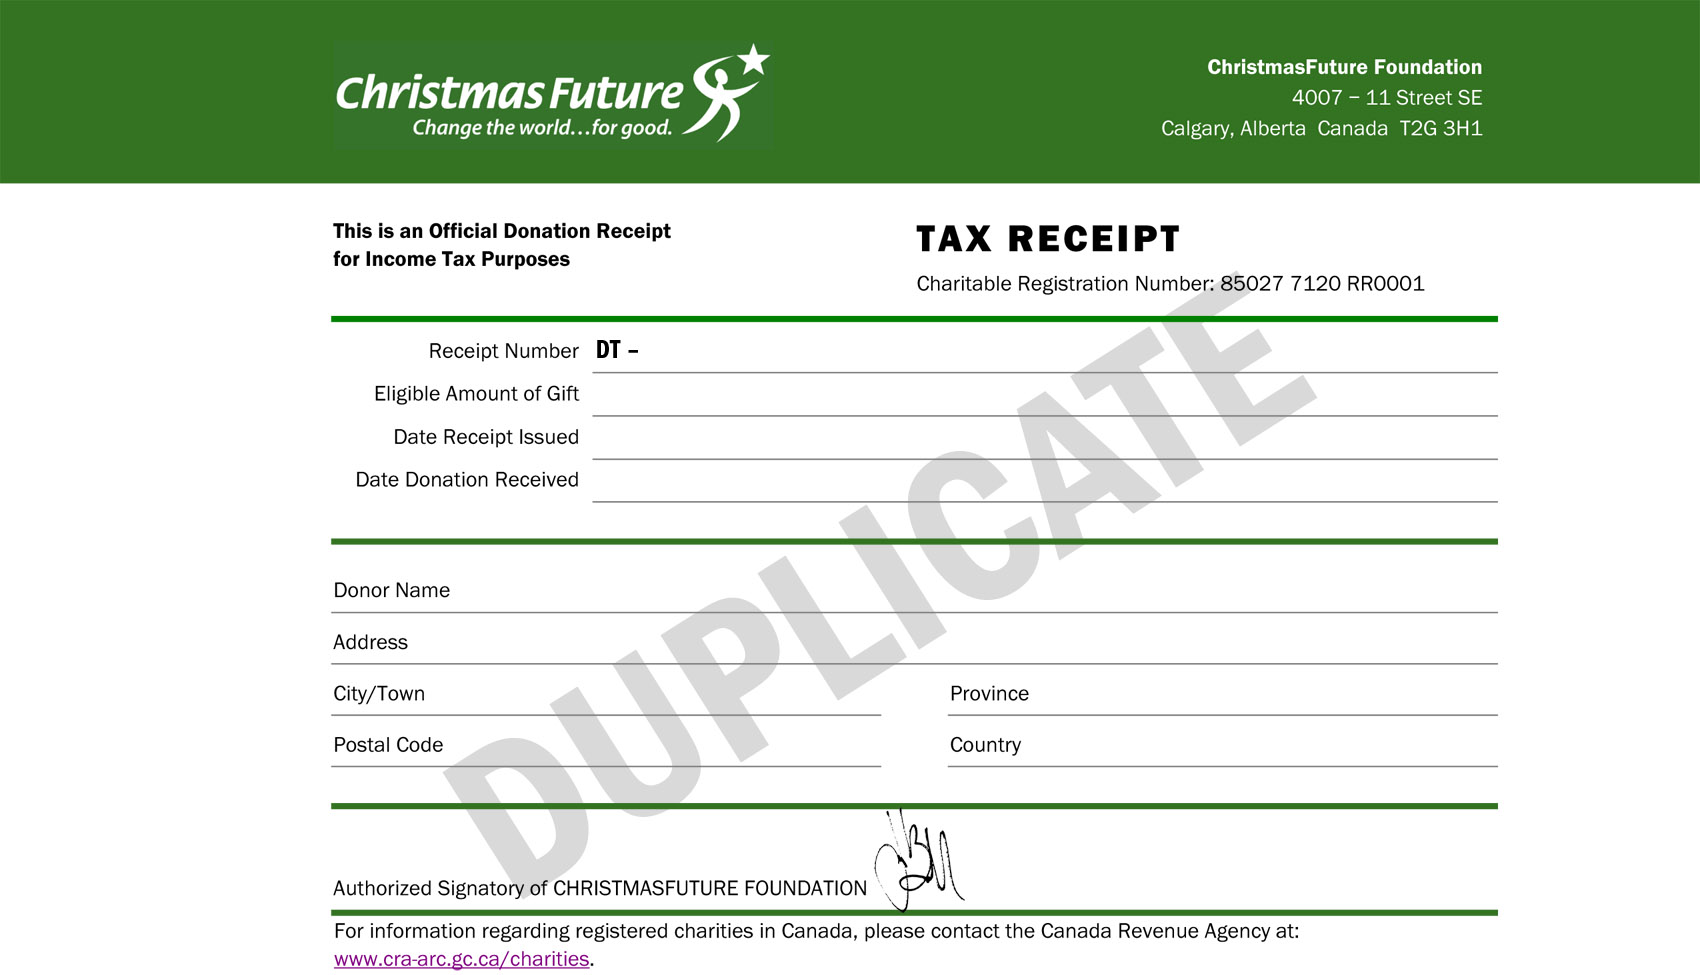
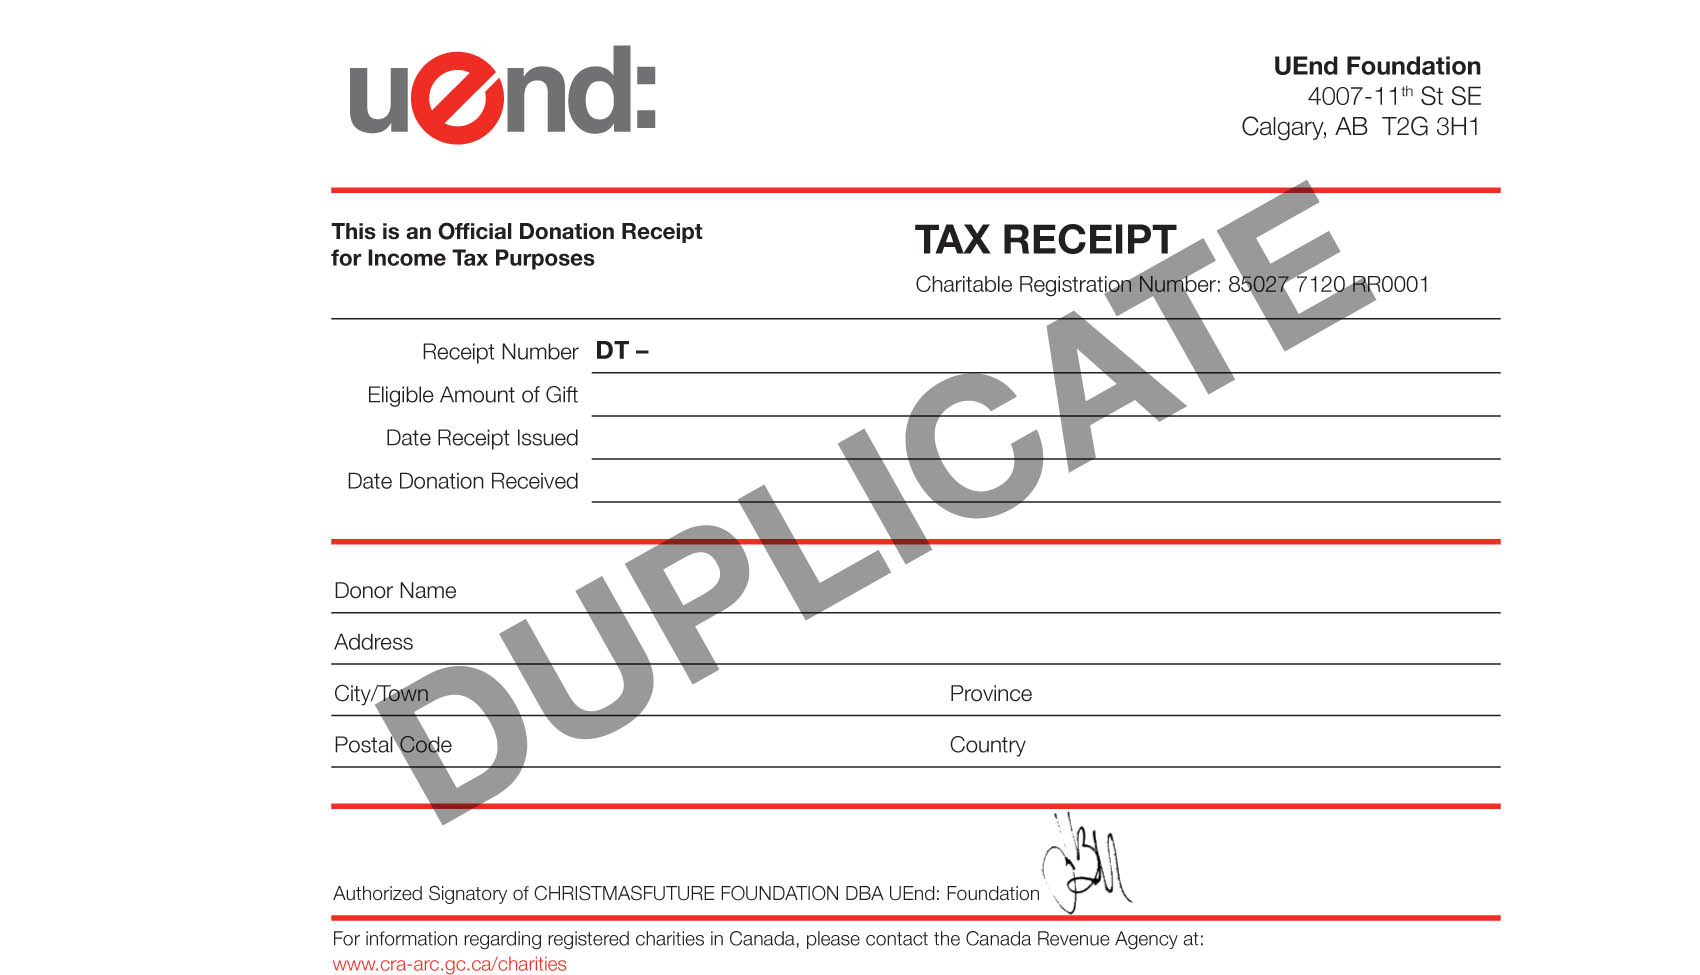
new tax receipts

diff --git a/lib/order_helper.rb b/lib/order_helper.rb
@@ -17,10 +17,12 @@ module OrderHelper
   end
   
   def find_order
-    # need to check if there's an existing order for the session. If so, grab it and load it
-    Order.find(session[:order_id])
-  rescue
-    return nil
+    begin
+      # need to check if there's an existing order for the session. If so, grab it and load it
+      Order.find(session[:order_id])
+    rescue
+      return nil
+    end
   end
   
   def initialize_new_order
